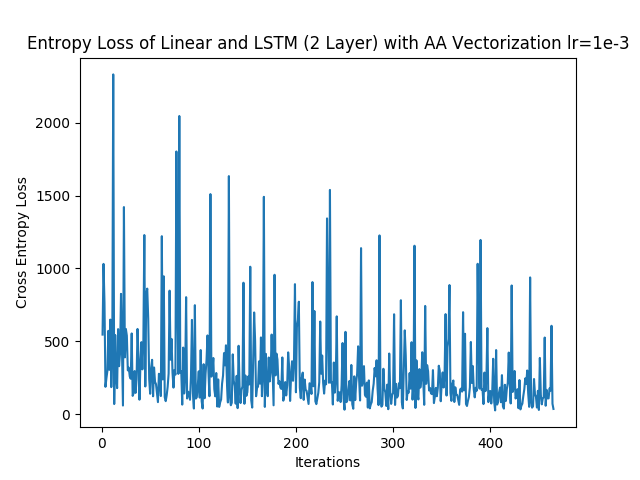
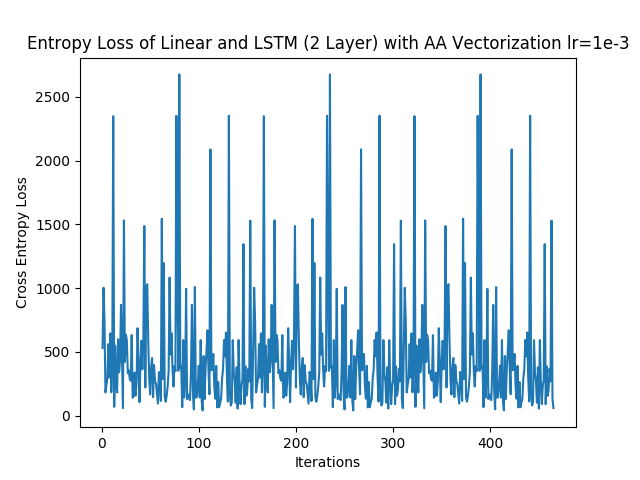
adjusted seq-linear-2-aap

diff --git a/seq-linear-prediction2-aap.py b/seq-linear-prediction2-aap.py
@@ -48,18 +48,21 @@ class Model(nn.Module):
 		self.lstm2 = nn.LSTM(2,2)
 		self.linear = nn.Linear(4,4)
 		self.linear2 = nn.Linear(4,4)
+		self.linear3 = nn.Linear(2,2)
 		self.hidden = self.init_hidden()
 		self.hidden2 = self.init_hidden()
 
 	def init_hidden(self):
-		return (autograd.Variable(torch.randn(1, 1, 2)),
-			autograd.Variable(torch.randn((1, 1, 2))))
+		return (autograd.Variable(torch.zeros(1, 1, 2)),
+			autograd.Variable(torch.zeros((1, 1, 2))))
 
 	def forward(self,i):
 		i = self.linear(i)
 		i = self.linear(i)
 		out, self.hidden = self.lstm(i.view(1, 1, -1), self.hidden)
 		out2, self.hidden2 = self.lstm2(out.view(1,1,-1), self.hidden2)
+		out2 = self.linear3(out2)
+		out2 = F.softmax(out2)
 		return out2
 
 def encode_input(x):
@@ -118,10 +121,10 @@ plt.show()
 plt.savefig('result_seq_linear_2_aap_lr=1e-3.png')
 
 
-'''
-# Testing
 
-model.load_state_dict(torch.load('seq2-aap.model'))
+# Testing
+'''
+model.load_state_dict(torch.load('seq-linear-2-aap.model'))
 
 for sequence in xrange(len(test)):
         inputs = [Variable(torch.Tensor(encode_input(x))) for x in test[sequence][1]]
